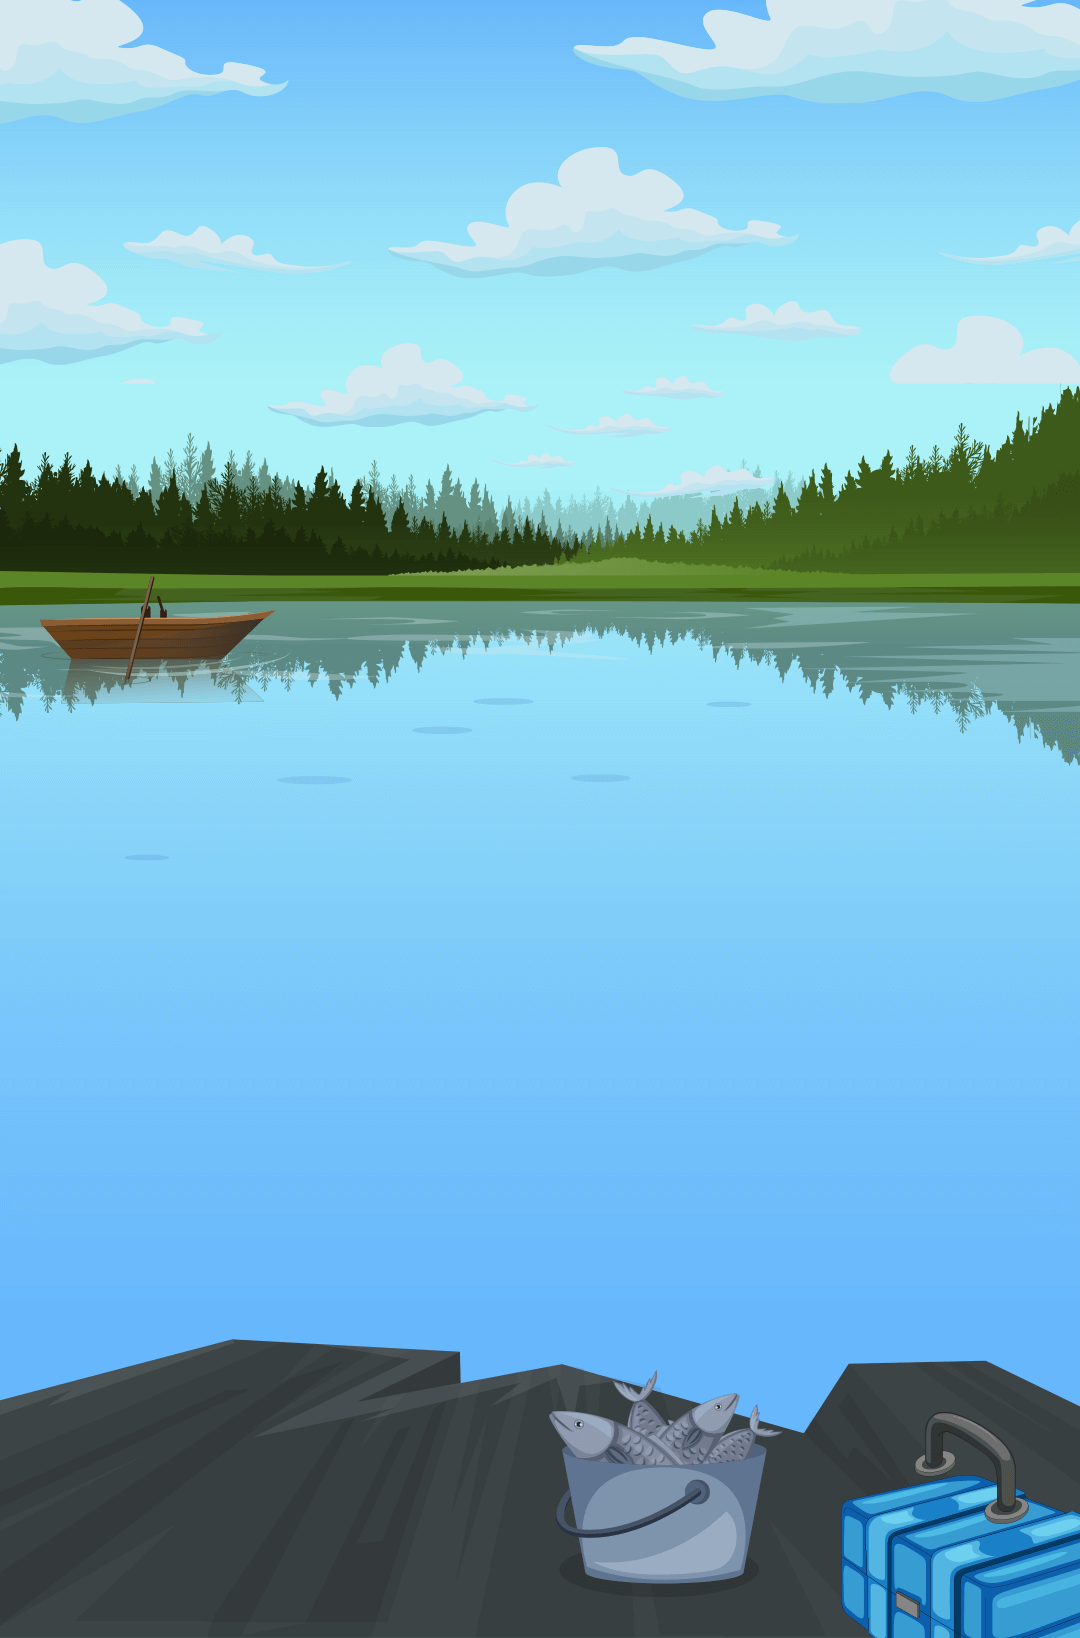
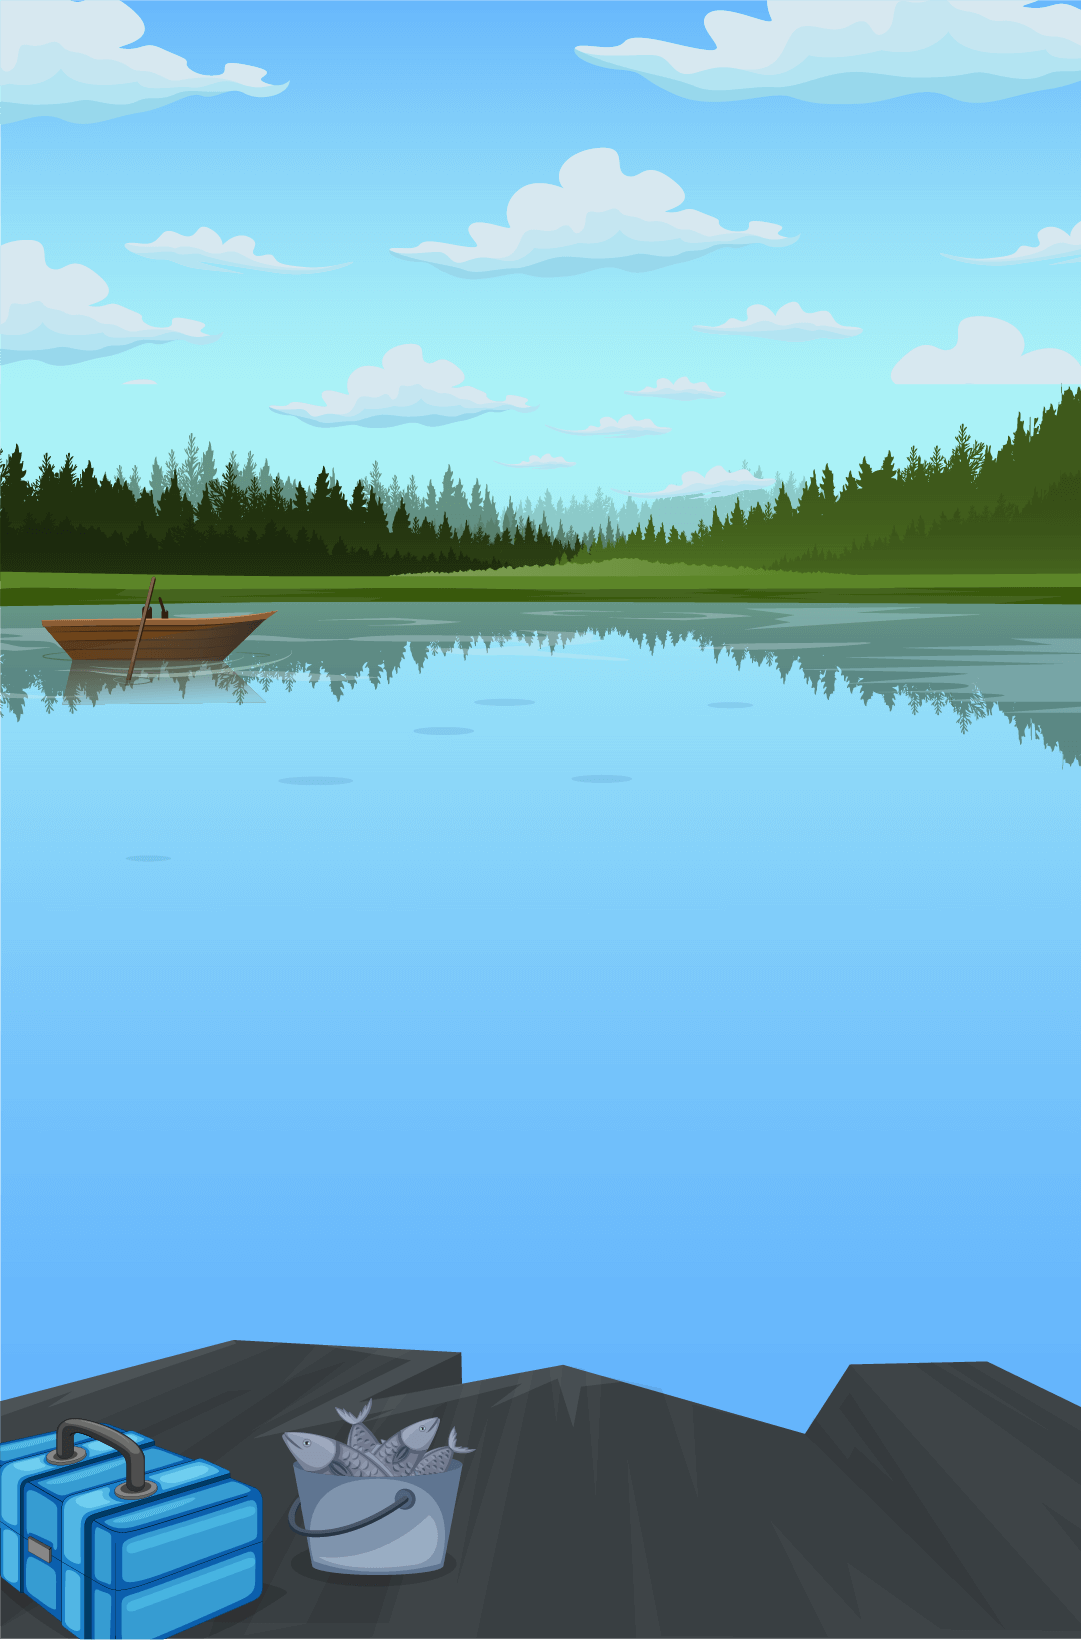
changed background and changed fish sizes depending on points

diff --git a/src/views/Home.vue b/src/views/Home.vue
@@ -89,7 +89,7 @@ export default {
     isBaiting: false,
 
     timeline: null,
-    points: 1,
+    points: 0,
 
     config: {
       dev: true,
@@ -318,11 +318,12 @@ export default {
     showResult__showFish() {
       const tl = gsap.timeline();
       const winningFish = document.getElementById("winning-effect__fish");
+      const scale = this.isMobile ? `1.1${this.points}` : `1.${this.points}`;
 
       tl.to(winningFish, 1, {
         visibility: "visible",
         opacity: 1,
-        scale: this.isMobile ? `1.1${this.points}` : `1.${this.points}`,
+        scale: Number(scale),
         ease: "elastic.out(1, 0.5)"
       });
 
